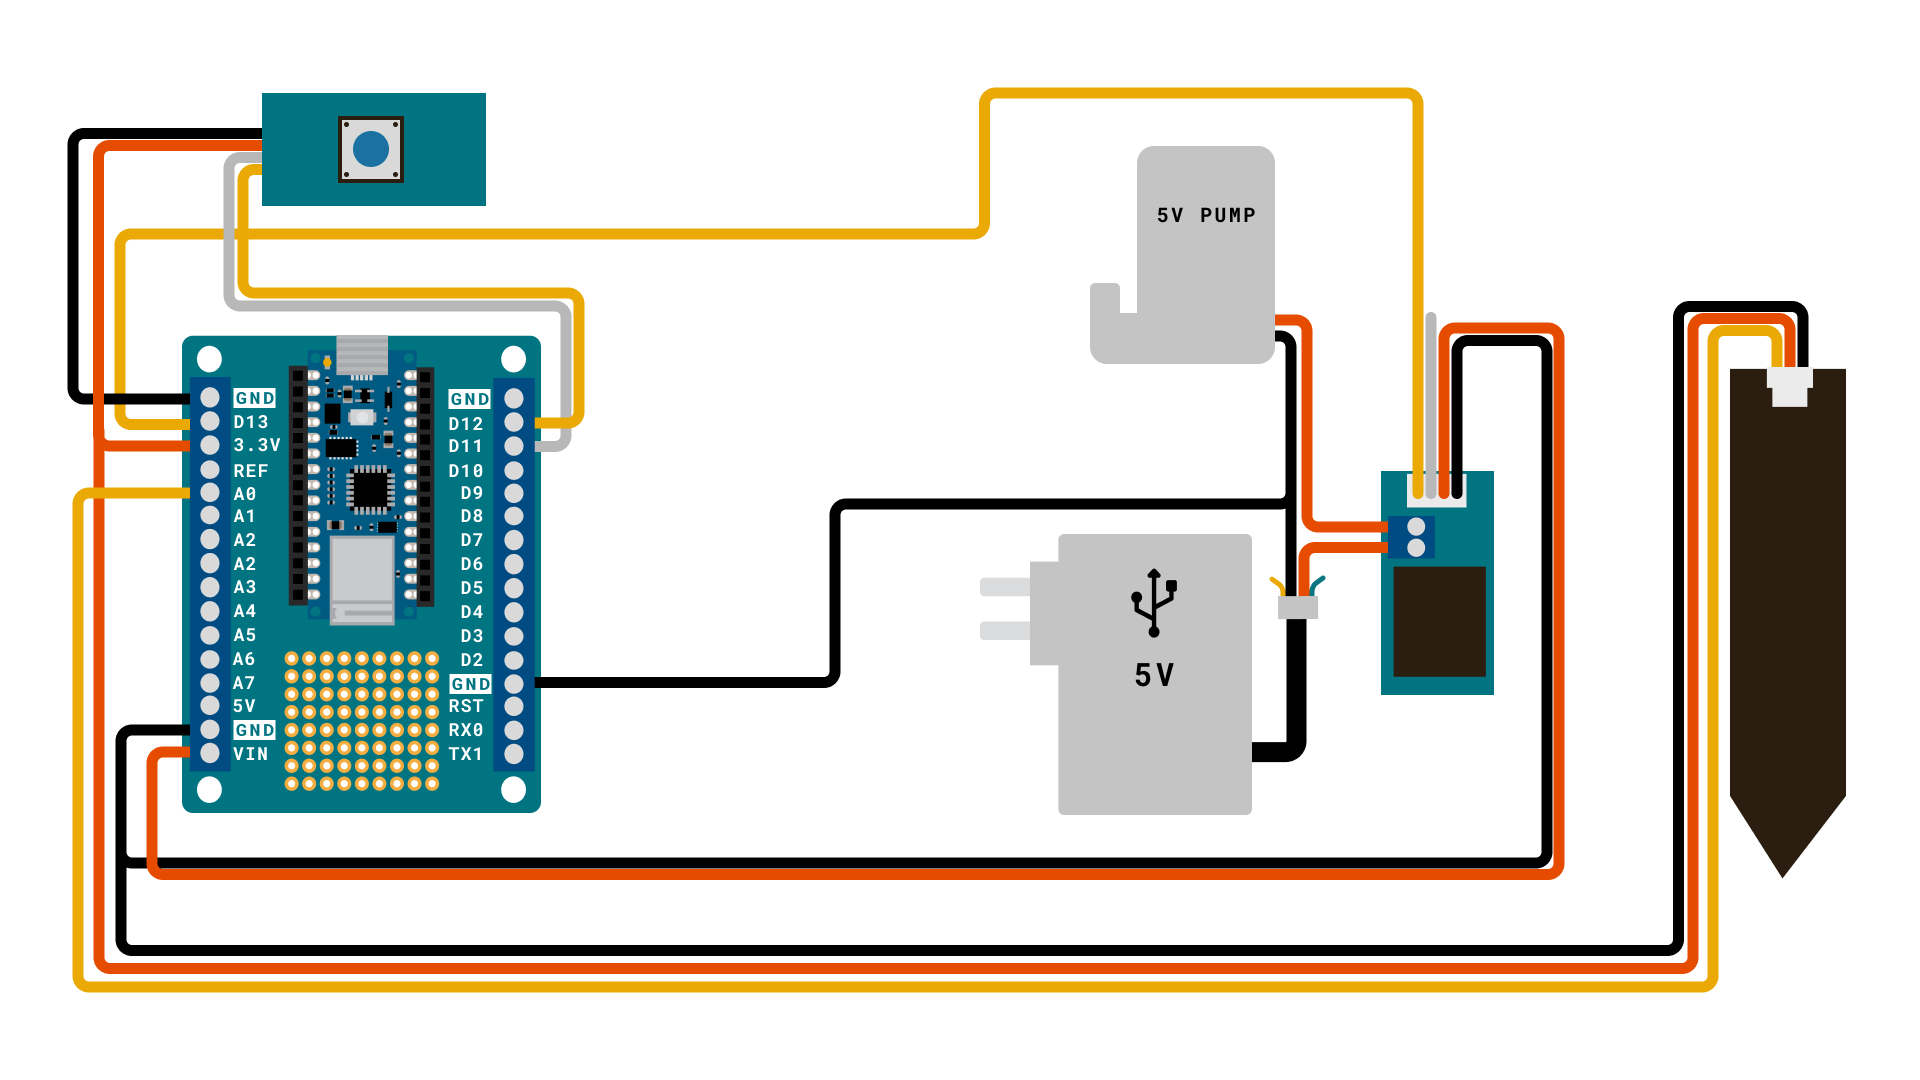
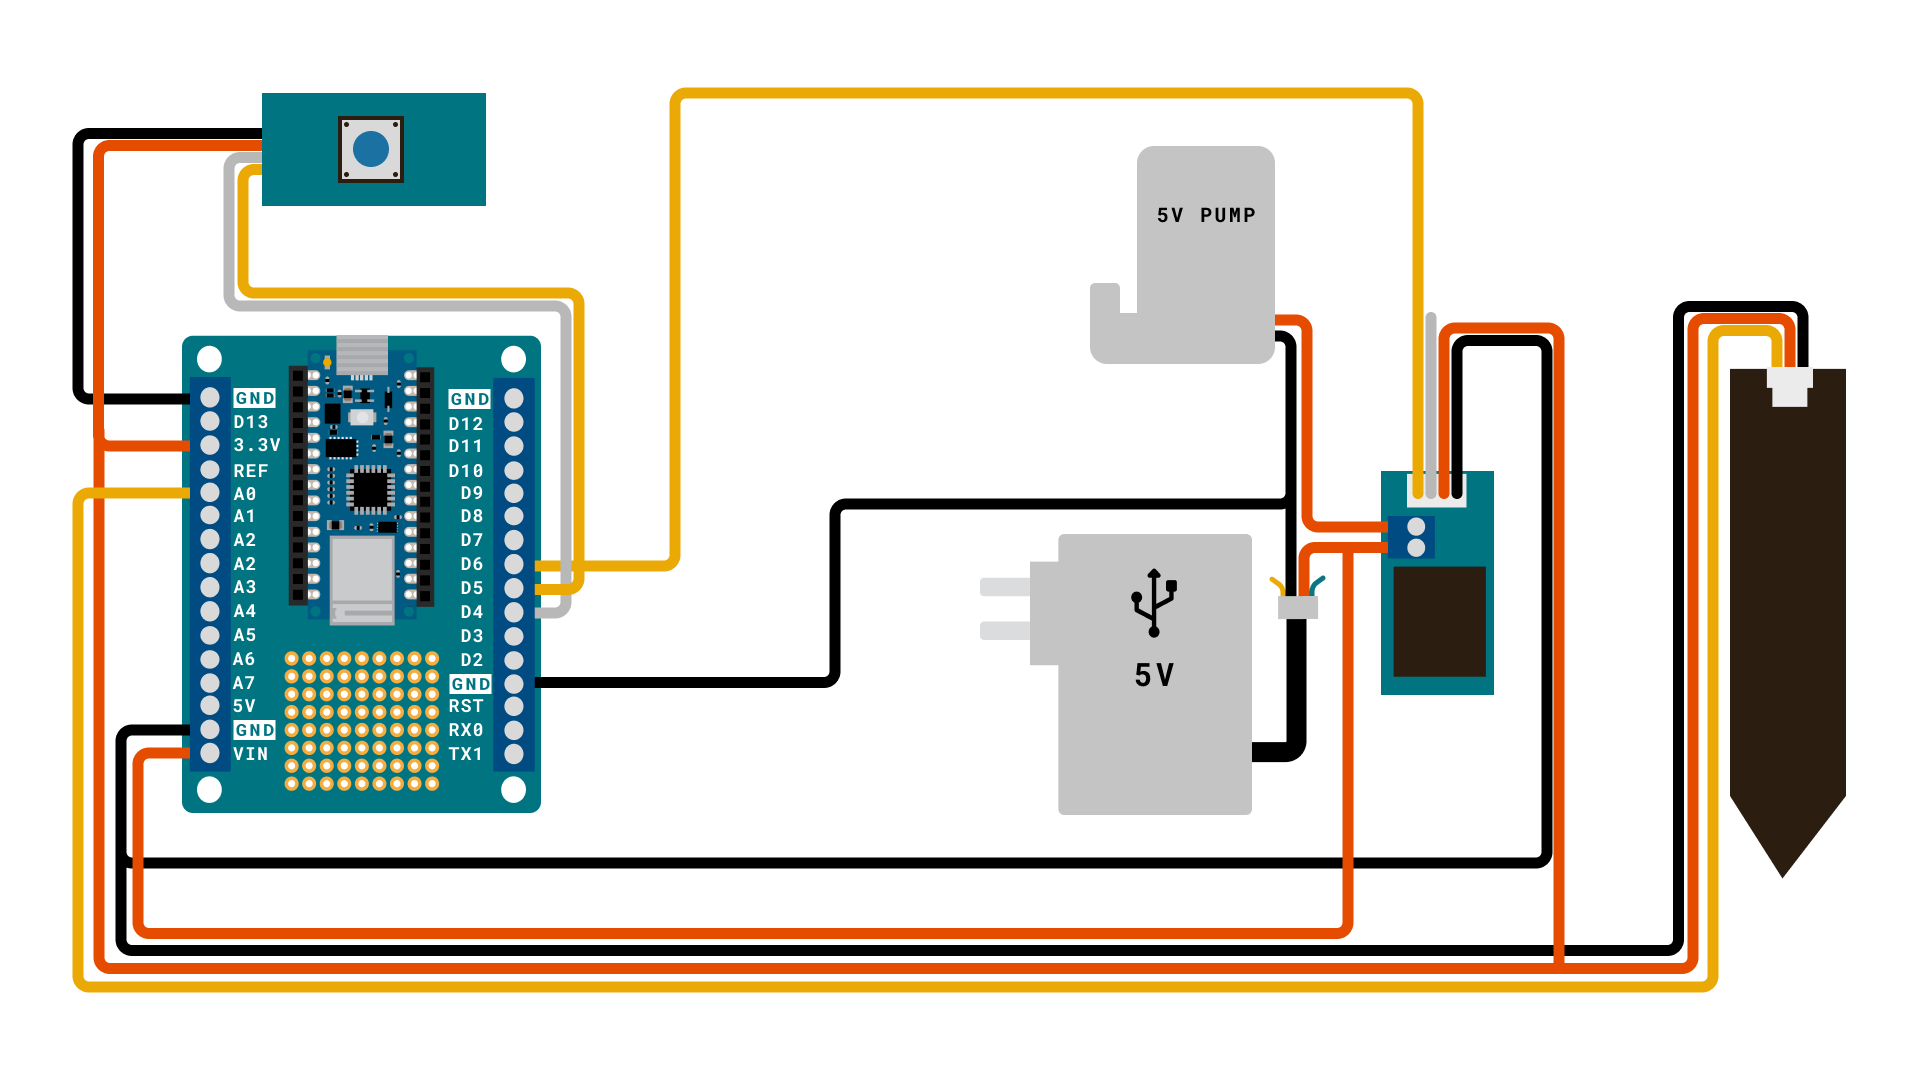
Fixed errors

diff --git a/content/tutorials/projects/nano-33-iot-iot-plant/nano-33-iot-iot-plant.md b/content/tutorials/projects/nano-33-iot-iot-plant/nano-33-iot-iot-plant.md
@@ -66,9 +66,8 @@ There are cases were multiple wires are going into the same screw terminal, you 
 The open ended grove cable from the relay module should be wired as follows:
 
 - Black wire (-) to GND pin.
-
-- Red wire (+) to A7 pin.
-- Yellow wire to D13 pin.
+- Red wire (+) to 3.3V pin.
+- Yellow wire to D6 pin.
 
  <br />
 
@@ -78,9 +77,9 @@ The grove button should be wired as follows:
 
 - Red wire (+) to 3.3V pin.
 
-- Yellow wire to D12 pin.
+- Yellow wire to D5 pin.
 
-- White wire to D11 pin.
+- White wire to D4 pin.
 
 <br />
 
